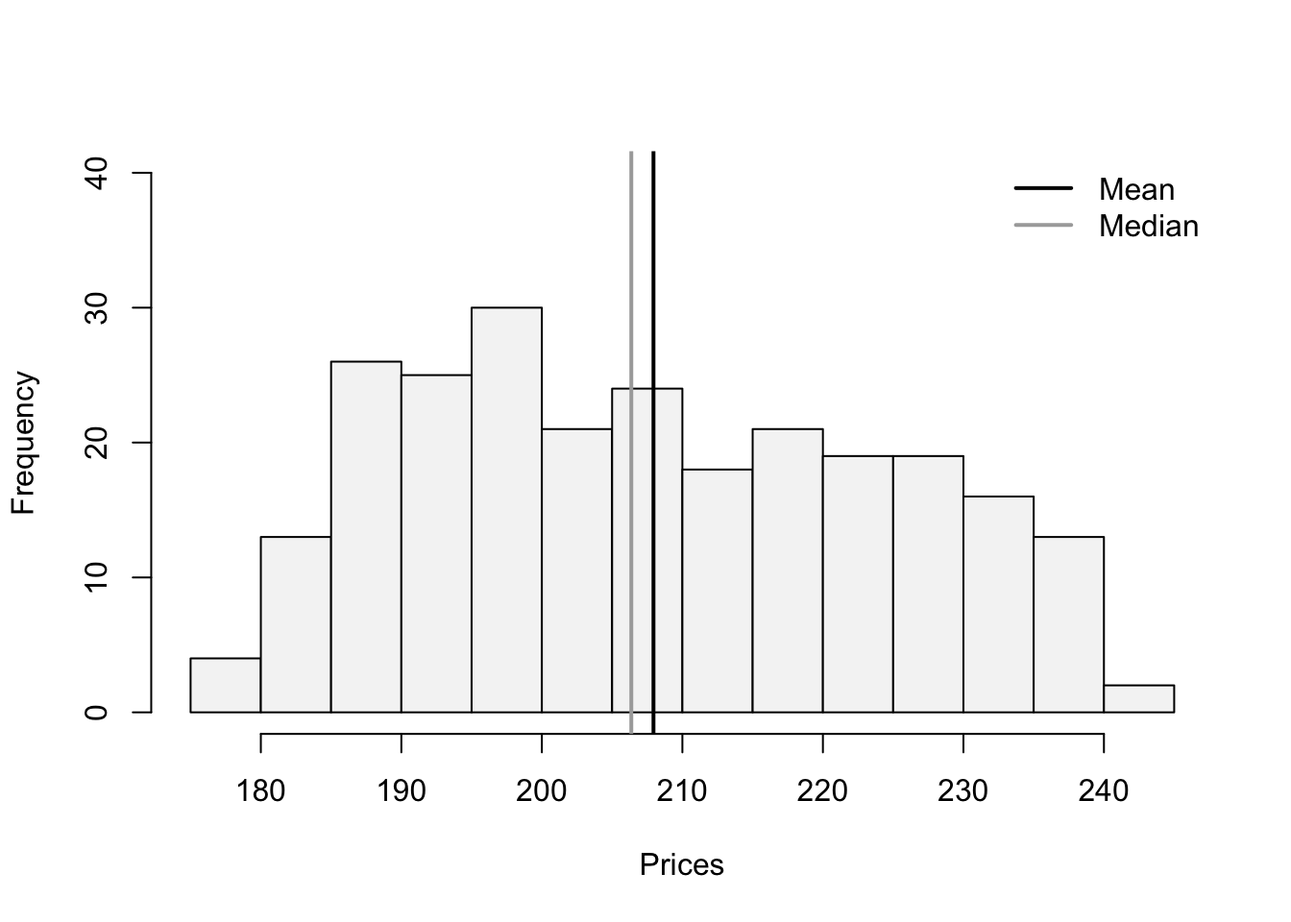
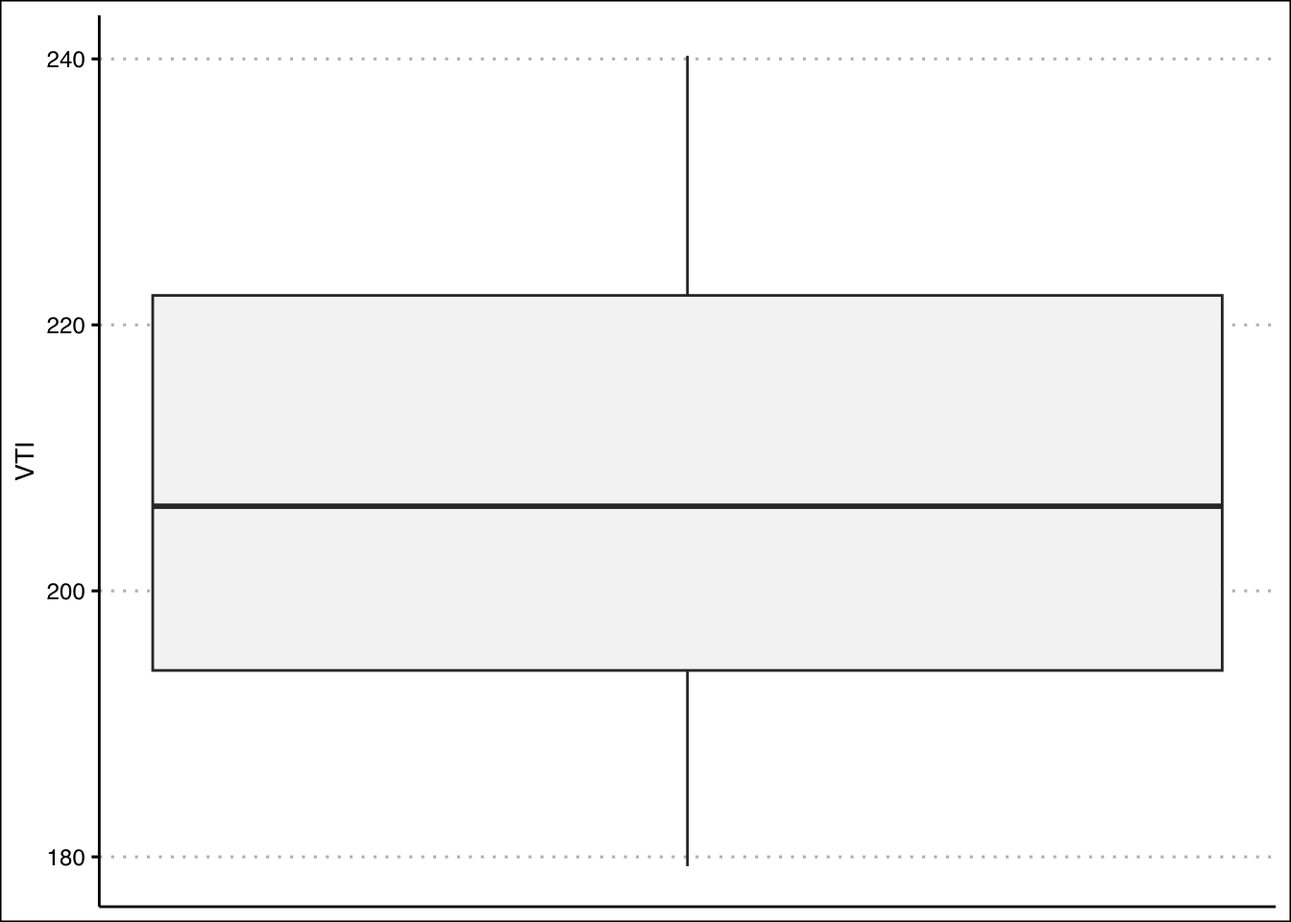
changes

diff --git a/docs/06-DescriptiveV.html b/docs/06-DescriptiveV.html
@@ -500,29 +500,40 @@ pre > code.sourceCode > span > a:first-child::before { text-decoration: underlin
 <p><img src="06-DescriptiveV_files/figure-html/unnamed-chunk-5-1.png" class="img-fluid" width="672"></p>
 </div>
 </div>
+<p>You can also create a box plot using <code>ggplot()</code>.</p>
+<div class="cell">
+<div class="sourceCode cell-code" id="cb9"><pre class="sourceCode r code-with-copy"><code class="sourceCode r"><span id="cb9-1"><a href="#cb9-1" aria-hidden="true" tabindex="-1"></a><span class="fu">library</span>(tidyverse)</span>
+<span id="cb9-2"><a href="#cb9-2" aria-hidden="true" tabindex="-1"></a><span class="fu">library</span>(ggthemes)</span>
+<span id="cb9-3"><a href="#cb9-3" aria-hidden="true" tabindex="-1"></a><span class="fu">ggplot</span>(<span class="at">data=</span>StockPrices) <span class="sc">+</span></span>
+<span id="cb9-4"><a href="#cb9-4" aria-hidden="true" tabindex="-1"></a>  <span class="fu">geom_boxplot</span>(<span class="fu">aes</span>(<span class="at">y=</span>VTI), <span class="at">fill=</span><span class="st">"#F5F5F5"</span>, <span class="at">outlier.color=</span><span class="st">"red"</span>) <span class="sc">+</span></span>
+<span id="cb9-5"><a href="#cb9-5" aria-hidden="true" tabindex="-1"></a>  <span class="fu">scale_x_continuous</span>(<span class="at">breaks=</span><span class="cn">NULL</span>) <span class="sc">+</span> <span class="fu">theme_clean</span>()</span></code><button title="Copy to Clipboard" class="code-copy-button"><i class="bi"></i></button></pre></div>
+<div class="cell-output-display">
+<p><img src="06-DescriptiveV_files/figure-html/unnamed-chunk-6-1.png" class="img-fluid" width="672"></p>
+</div>
+</div>
 <p>The boxplot shows that there are no outliers. The data also looks like it has a slight skew to the right.</p>
 <ol start="2" type="1">
 <li>The mean is more sensitive to outliers than the median. Hence, when the data is skewed to the right we expect that the mean is larger than the median.</li>
 </ol>
 <p>Let’s construct a histogram in R to search for skewness.</p>
 <div class="cell">
-<div class="sourceCode cell-code" id="cb9"><pre class="sourceCode r code-with-copy"><code class="sourceCode r"><span id="cb9-1"><a href="#cb9-1" aria-hidden="true" tabindex="-1"></a><span class="fu">hist</span>(StockPrices<span class="sc">$</span>VTI,<span class="at">main=</span><span class="st">""</span>, <span class="at">ylim=</span><span class="fu">c</span>(<span class="dv">0</span>,<span class="dv">40</span>), </span>
-<span id="cb9-2"><a href="#cb9-2" aria-hidden="true" tabindex="-1"></a>     <span class="at">xlab=</span><span class="st">"Prices"</span>, <span class="at">col=</span><span class="st">"#F5F5F5"</span>)</span>
-<span id="cb9-3"><a href="#cb9-3" aria-hidden="true" tabindex="-1"></a><span class="fu">abline</span>(<span class="at">v=</span><span class="fu">mean</span>(StockPrices<span class="sc">$</span>VTI),<span class="at">col=</span><span class="st">"black"</span>,<span class="at">lwd=</span><span class="dv">2</span>)</span>
-<span id="cb9-4"><a href="#cb9-4" aria-hidden="true" tabindex="-1"></a><span class="fu">abline</span>(<span class="at">v=</span><span class="fu">median</span>(StockPrices<span class="sc">$</span>VTI),<span class="at">col=</span><span class="st">"darkgrey"</span>,<span class="at">lwd=</span><span class="dv">2</span>)</span>
-<span id="cb9-5"><a href="#cb9-5" aria-hidden="true" tabindex="-1"></a><span class="fu">legend</span>(<span class="at">x =</span> <span class="st">"topright"</span>,          </span>
-<span id="cb9-6"><a href="#cb9-6" aria-hidden="true" tabindex="-1"></a>       <span class="at">legend =</span> <span class="fu">c</span>(<span class="st">"Mean"</span>, <span class="st">"Median"</span>),  </span>
-<span id="cb9-7"><a href="#cb9-7" aria-hidden="true" tabindex="-1"></a>       <span class="at">lty =</span> <span class="fu">c</span>(<span class="dv">1</span>, <span class="dv">1</span>),           </span>
-<span id="cb9-8"><a href="#cb9-8" aria-hidden="true" tabindex="-1"></a>       <span class="at">col =</span> <span class="fu">c</span>(<span class="st">"black"</span>, <span class="st">"darkgrey"</span>),         </span>
-<span id="cb9-9"><a href="#cb9-9" aria-hidden="true" tabindex="-1"></a>       <span class="at">lwd =</span> <span class="dv">2</span>,</span>
-<span id="cb9-10"><a href="#cb9-10" aria-hidden="true" tabindex="-1"></a>       <span class="at">bty=</span><span class="st">"n"</span>)    </span></code><button title="Copy to Clipboard" class="code-copy-button"><i class="bi"></i></button></pre></div>
+<div class="sourceCode cell-code" id="cb10"><pre class="sourceCode r code-with-copy"><code class="sourceCode r"><span id="cb10-1"><a href="#cb10-1" aria-hidden="true" tabindex="-1"></a><span class="fu">hist</span>(StockPrices<span class="sc">$</span>VTI,<span class="at">main=</span><span class="st">""</span>, <span class="at">ylim=</span><span class="fu">c</span>(<span class="dv">0</span>,<span class="dv">40</span>), </span>
+<span id="cb10-2"><a href="#cb10-2" aria-hidden="true" tabindex="-1"></a>     <span class="at">xlab=</span><span class="st">"Prices"</span>, <span class="at">col=</span><span class="st">"#F5F5F5"</span>)</span>
+<span id="cb10-3"><a href="#cb10-3" aria-hidden="true" tabindex="-1"></a><span class="fu">abline</span>(<span class="at">v=</span><span class="fu">mean</span>(StockPrices<span class="sc">$</span>VTI),<span class="at">col=</span><span class="st">"black"</span>,<span class="at">lwd=</span><span class="dv">2</span>)</span>
+<span id="cb10-4"><a href="#cb10-4" aria-hidden="true" tabindex="-1"></a><span class="fu">abline</span>(<span class="at">v=</span><span class="fu">median</span>(StockPrices<span class="sc">$</span>VTI),<span class="at">col=</span><span class="st">"darkgrey"</span>,<span class="at">lwd=</span><span class="dv">2</span>)</span>
+<span id="cb10-5"><a href="#cb10-5" aria-hidden="true" tabindex="-1"></a><span class="fu">legend</span>(<span class="at">x =</span> <span class="st">"topright"</span>,          </span>
+<span id="cb10-6"><a href="#cb10-6" aria-hidden="true" tabindex="-1"></a>       <span class="at">legend =</span> <span class="fu">c</span>(<span class="st">"Mean"</span>, <span class="st">"Median"</span>),  </span>
+<span id="cb10-7"><a href="#cb10-7" aria-hidden="true" tabindex="-1"></a>       <span class="at">lty =</span> <span class="fu">c</span>(<span class="dv">1</span>, <span class="dv">1</span>),           </span>
+<span id="cb10-8"><a href="#cb10-8" aria-hidden="true" tabindex="-1"></a>       <span class="at">col =</span> <span class="fu">c</span>(<span class="st">"black"</span>, <span class="st">"darkgrey"</span>),         </span>
+<span id="cb10-9"><a href="#cb10-9" aria-hidden="true" tabindex="-1"></a>       <span class="at">lwd =</span> <span class="dv">2</span>,</span>
+<span id="cb10-10"><a href="#cb10-10" aria-hidden="true" tabindex="-1"></a>       <span class="at">bty=</span><span class="st">"n"</span>)    </span></code><button title="Copy to Clipboard" class="code-copy-button"><i class="bi"></i></button></pre></div>
 <div class="cell-output-display">
-<p><img src="06-DescriptiveV_files/figure-html/unnamed-chunk-6-1.png" class="img-fluid" width="672"></p>
+<p><img src="06-DescriptiveV_files/figure-html/unnamed-chunk-7-1.png" class="img-fluid" width="672"></p>
 </div>
 </div>
 <p>The lines are close to each other but the mean is slighlty larger than the median. Let’s confirm with the skewness statistic <span class="math inline">\(3(mean-median)/sd\)</span>.</p>
 <div class="cell">
-<div class="sourceCode cell-code" id="cb10"><pre class="sourceCode r code-with-copy"><code class="sourceCode r"><span id="cb10-1"><a href="#cb10-1" aria-hidden="true" tabindex="-1"></a>(skew<span class="ot">&lt;-</span><span class="dv">3</span><span class="sc">*</span>(<span class="fu">mean</span>(StockPrices<span class="sc">$</span>VTI<span class="sc">-</span><span class="fu">median</span>(StockPrices<span class="sc">$</span>VTI))<span class="sc">/</span><span class="fu">sd</span>(StockPrices<span class="sc">$</span>VTI)))</span></code><button title="Copy to Clipboard" class="code-copy-button"><i class="bi"></i></button></pre></div>
+<div class="sourceCode cell-code" id="cb11"><pre class="sourceCode r code-with-copy"><code class="sourceCode r"><span id="cb11-1"><a href="#cb11-1" aria-hidden="true" tabindex="-1"></a>(skew<span class="ot">&lt;-</span><span class="dv">3</span><span class="sc">*</span>(<span class="fu">mean</span>(StockPrices<span class="sc">$</span>VTI<span class="sc">-</span><span class="fu">median</span>(StockPrices<span class="sc">$</span>VTI))<span class="sc">/</span><span class="fu">sd</span>(StockPrices<span class="sc">$</span>VTI)))</span></code><button title="Copy to Clipboard" class="code-copy-button"><i class="bi"></i></button></pre></div>
 <div class="cell-output cell-output-stdout">
 <pre><code>[1] 0.2856304</code></pre>
 </div>
@@ -532,12 +543,12 @@ pre > code.sourceCode > span > a:first-child::before { text-decoration: underlin
 <li>The line chart indicates that the data has a downward trend in the early periods. This creates a few points that are large. In later periods the stock price stabilizes to lower levels.</li>
 </ol>
 <div class="cell">
-<div class="sourceCode cell-code" id="cb12"><pre class="sourceCode r code-with-copy"><code class="sourceCode r"><span id="cb12-1"><a href="#cb12-1" aria-hidden="true" tabindex="-1"></a><span class="fu">plot</span>(<span class="at">y=</span>StockPrices<span class="sc">$</span>VTI,<span class="at">x=</span><span class="fu">seq</span>(<span class="dv">1</span>,<span class="fu">length</span>(StockPrices<span class="sc">$</span>VTI)),</span>
-<span id="cb12-2"><a href="#cb12-2" aria-hidden="true" tabindex="-1"></a>     <span class="at">type=</span><span class="st">"l"</span>, <span class="at">ylab=</span><span class="st">"Prices"</span>, <span class="at">xlab=</span><span class="st">"Period"</span>, <span class="at">axes=</span>F)</span>
-<span id="cb12-3"><a href="#cb12-3" aria-hidden="true" tabindex="-1"></a><span class="fu">axis</span>(<span class="at">side=</span><span class="dv">1</span>, <span class="at">labels=</span><span class="cn">TRUE</span>, <span class="at">at=</span><span class="fu">seq</span>(<span class="dv">0</span>,<span class="dv">250</span>,<span class="dv">50</span>),<span class="at">font=</span><span class="dv">1</span>,<span class="at">las=</span><span class="dv">1</span>)</span>
-<span id="cb12-4"><a href="#cb12-4" aria-hidden="true" tabindex="-1"></a><span class="fu">axis</span>(<span class="at">side=</span><span class="dv">2</span>, <span class="at">labels=</span><span class="cn">TRUE</span>, <span class="at">at=</span><span class="fu">seq</span>(<span class="dv">0</span>,<span class="dv">300</span>,<span class="dv">20</span>),<span class="at">font=</span><span class="dv">1</span>,<span class="at">las=</span><span class="dv">1</span>)</span></code><button title="Copy to Clipboard" class="code-copy-button"><i class="bi"></i></button></pre></div>
+<div class="sourceCode cell-code" id="cb13"><pre class="sourceCode r code-with-copy"><code class="sourceCode r"><span id="cb13-1"><a href="#cb13-1" aria-hidden="true" tabindex="-1"></a><span class="fu">plot</span>(<span class="at">y=</span>StockPrices<span class="sc">$</span>VTI,<span class="at">x=</span><span class="fu">seq</span>(<span class="dv">1</span>,<span class="fu">length</span>(StockPrices<span class="sc">$</span>VTI)),</span>
+<span id="cb13-2"><a href="#cb13-2" aria-hidden="true" tabindex="-1"></a>     <span class="at">type=</span><span class="st">"l"</span>, <span class="at">ylab=</span><span class="st">"Prices"</span>, <span class="at">xlab=</span><span class="st">"Period"</span>, <span class="at">axes=</span>F)</span>
+<span id="cb13-3"><a href="#cb13-3" aria-hidden="true" tabindex="-1"></a><span class="fu">axis</span>(<span class="at">side=</span><span class="dv">1</span>, <span class="at">labels=</span><span class="cn">TRUE</span>, <span class="at">at=</span><span class="fu">seq</span>(<span class="dv">0</span>,<span class="dv">250</span>,<span class="dv">50</span>),<span class="at">font=</span><span class="dv">1</span>,<span class="at">las=</span><span class="dv">1</span>)</span>
+<span id="cb13-4"><a href="#cb13-4" aria-hidden="true" tabindex="-1"></a><span class="fu">axis</span>(<span class="at">side=</span><span class="dv">2</span>, <span class="at">labels=</span><span class="cn">TRUE</span>, <span class="at">at=</span><span class="fu">seq</span>(<span class="dv">0</span>,<span class="dv">300</span>,<span class="dv">20</span>),<span class="at">font=</span><span class="dv">1</span>,<span class="at">las=</span><span class="dv">1</span>)</span></code><button title="Copy to Clipboard" class="code-copy-button"><i class="bi"></i></button></pre></div>
 <div class="cell-output-display">
-<p><img src="06-DescriptiveV_files/figure-html/unnamed-chunk-8-1.png" class="img-fluid" width="672"></p>
+<p><img src="06-DescriptiveV_files/figure-html/unnamed-chunk-9-1.png" class="img-fluid" width="672"></p>
 </div>
 </div>
 </section>
@@ -548,17 +559,17 @@ pre > code.sourceCode > span > a:first-child::before { text-decoration: underlin
 </ol>
 <p>In R we can construct a boxplot with the following command:</p>
 <div class="cell">
-<div class="sourceCode cell-code" id="cb13"><pre class="sourceCode r code-with-copy"><code class="sourceCode r"><span id="cb13-1"><a href="#cb13-1" aria-hidden="true" tabindex="-1"></a><span class="fu">boxplot</span>(mtcars<span class="sc">$</span>hp,<span class="at">axes=</span>F, <span class="at">ylim=</span><span class="fu">c</span>(<span class="dv">0</span>,<span class="dv">400</span>),</span>
-<span id="cb13-2"><a href="#cb13-2" aria-hidden="true" tabindex="-1"></a>        <span class="at">cex=</span><span class="fl">1.5</span>, <span class="at">col=</span><span class="st">"#F5F5F5"</span>,<span class="at">pch=</span><span class="dv">21</span>,<span class="at">bg=</span><span class="st">"red"</span>)</span>
-<span id="cb13-3"><a href="#cb13-3" aria-hidden="true" tabindex="-1"></a><span class="fu">axis</span>(<span class="at">side=</span><span class="dv">1</span>, <span class="at">labels=</span><span class="fu">c</span>(<span class="st">"HP"</span>), <span class="at">at=</span><span class="fu">seq</span>(<span class="dv">1</span>))</span>
-<span id="cb13-4"><a href="#cb13-4" aria-hidden="true" tabindex="-1"></a><span class="fu">axis</span>(<span class="at">side=</span><span class="dv">2</span>, <span class="at">labels=</span><span class="cn">TRUE</span>, <span class="at">at=</span><span class="fu">seq</span>(<span class="dv">0</span>,<span class="dv">400</span>,<span class="dv">50</span>),<span class="at">font=</span><span class="dv">1</span>,<span class="at">las=</span><span class="dv">1</span>)</span></code><button title="Copy to Clipboard" class="code-copy-button"><i class="bi"></i></button></pre></div>
+<div class="sourceCode cell-code" id="cb14"><pre class="sourceCode r code-with-copy"><code class="sourceCode r"><span id="cb14-1"><a href="#cb14-1" aria-hidden="true" tabindex="-1"></a><span class="fu">boxplot</span>(mtcars<span class="sc">$</span>hp,<span class="at">axes=</span>F, <span class="at">ylim=</span><span class="fu">c</span>(<span class="dv">0</span>,<span class="dv">400</span>),</span>
+<span id="cb14-2"><a href="#cb14-2" aria-hidden="true" tabindex="-1"></a>        <span class="at">cex=</span><span class="fl">1.5</span>, <span class="at">col=</span><span class="st">"#F5F5F5"</span>,<span class="at">pch=</span><span class="dv">21</span>,<span class="at">bg=</span><span class="st">"red"</span>)</span>
+<span id="cb14-3"><a href="#cb14-3" aria-hidden="true" tabindex="-1"></a><span class="fu">axis</span>(<span class="at">side=</span><span class="dv">1</span>, <span class="at">labels=</span><span class="fu">c</span>(<span class="st">"HP"</span>), <span class="at">at=</span><span class="fu">seq</span>(<span class="dv">1</span>))</span>
+<span id="cb14-4"><a href="#cb14-4" aria-hidden="true" tabindex="-1"></a><span class="fu">axis</span>(<span class="at">side=</span><span class="dv">2</span>, <span class="at">labels=</span><span class="cn">TRUE</span>, <span class="at">at=</span><span class="fu">seq</span>(<span class="dv">0</span>,<span class="dv">400</span>,<span class="dv">50</span>),<span class="at">font=</span><span class="dv">1</span>,<span class="at">las=</span><span class="dv">1</span>)</span></code><button title="Copy to Clipboard" class="code-copy-button"><i class="bi"></i></button></pre></div>
 <div class="cell-output-display">
-<p><img src="06-DescriptiveV_files/figure-html/unnamed-chunk-9-1.png" class="img-fluid" width="672"></p>
+<p><img src="06-DescriptiveV_files/figure-html/unnamed-chunk-10-1.png" class="img-fluid" width="672"></p>
 </div>
 </div>
 <p>From the graph it seems like the outlier is beyond a horsepower of 275. Let’s write an R command to retrieve the car.</p>
 <div class="cell">
-<div class="sourceCode cell-code" id="cb14"><pre class="sourceCode r code-with-copy"><code class="sourceCode r"><span id="cb14-1"><a href="#cb14-1" aria-hidden="true" tabindex="-1"></a>mtcars[mtcars<span class="sc">$</span>hp<span class="sc">&gt;</span><span class="dv">275</span>,]</span></code><button title="Copy to Clipboard" class="code-copy-button"><i class="bi"></i></button></pre></div>
+<div class="sourceCode cell-code" id="cb15"><pre class="sourceCode r code-with-copy"><code class="sourceCode r"><span id="cb15-1"><a href="#cb15-1" aria-hidden="true" tabindex="-1"></a>mtcars[mtcars<span class="sc">$</span>hp<span class="sc">&gt;</span><span class="dv">275</span>,]</span></code><button title="Copy to Clipboard" class="code-copy-button"><i class="bi"></i></button></pre></div>
 <div class="cell-output cell-output-stdout">
 <pre><code>              mpg cyl disp  hp drat   wt qsec vs am gear carb
 Maserati Bora  15   8  301 335 3.54 3.57 14.6  0  1    5    8</code></pre>
@@ -570,23 +581,23 @@ Maserati Bora  15   8  301 335 3.54 3.57 14.6  0  1    5    8</code></pre>
 </ol>
 <p>In R we can construct a histogram with vertical lines for the mean and median wit the following code:</p>
 <div class="cell">
-<div class="sourceCode cell-code" id="cb16"><pre class="sourceCode r code-with-copy"><code class="sourceCode r"><span id="cb16-1"><a href="#cb16-1" aria-hidden="true" tabindex="-1"></a><span class="fu">hist</span>(mtcars<span class="sc">$</span>hp,<span class="at">main=</span><span class="st">""</span>, <span class="at">ylim=</span><span class="fu">c</span>(<span class="dv">0</span>,<span class="dv">12</span>), <span class="at">xlab=</span><span class="st">"Horse Power"</span>,</span>
-<span id="cb16-2"><a href="#cb16-2" aria-hidden="true" tabindex="-1"></a>     <span class="at">col=</span><span class="st">"#F5F5F5"</span>)</span>
-<span id="cb16-3"><a href="#cb16-3" aria-hidden="true" tabindex="-1"></a><span class="fu">abline</span>(<span class="at">v=</span><span class="fu">mean</span>(mtcars<span class="sc">$</span>hp),<span class="at">col=</span><span class="st">"black"</span>,<span class="at">lwd=</span><span class="dv">2</span>)</span>
-<span id="cb16-4"><a href="#cb16-4" aria-hidden="true" tabindex="-1"></a><span class="fu">abline</span>(<span class="at">v=</span><span class="fu">median</span>(mtcars<span class="sc">$</span>hp),<span class="at">col=</span><span class="st">"darkgrey"</span>,<span class="at">lwd=</span><span class="dv">2</span>)</span>
-<span id="cb16-5"><a href="#cb16-5" aria-hidden="true" tabindex="-1"></a><span class="fu">legend</span>(<span class="at">x =</span> <span class="st">"topright"</span>,          </span>
-<span id="cb16-6"><a href="#cb16-6" aria-hidden="true" tabindex="-1"></a>       <span class="at">legend =</span> <span class="fu">c</span>(<span class="st">"Mean"</span>, <span class="st">"Median"</span>),  </span>
-<span id="cb16-7"><a href="#cb16-7" aria-hidden="true" tabindex="-1"></a>       <span class="at">lty =</span> <span class="fu">c</span>(<span class="dv">1</span>, <span class="dv">1</span>),           </span>
-<span id="cb16-8"><a href="#cb16-8" aria-hidden="true" tabindex="-1"></a>       <span class="at">col =</span> <span class="fu">c</span>(<span class="st">"black"</span>, <span class="st">"darkgrey"</span>),         </span>
-<span id="cb16-9"><a href="#cb16-9" aria-hidden="true" tabindex="-1"></a>       <span class="at">lwd =</span> <span class="dv">2</span>,</span>
-<span id="cb16-10"><a href="#cb16-10" aria-hidden="true" tabindex="-1"></a>       <span class="at">bty=</span><span class="st">"n"</span>)    </span></code><button title="Copy to Clipboard" class="code-copy-button"><i class="bi"></i></button></pre></div>
+<div class="sourceCode cell-code" id="cb17"><pre class="sourceCode r code-with-copy"><code class="sourceCode r"><span id="cb17-1"><a href="#cb17-1" aria-hidden="true" tabindex="-1"></a><span class="fu">hist</span>(mtcars<span class="sc">$</span>hp,<span class="at">main=</span><span class="st">""</span>, <span class="at">ylim=</span><span class="fu">c</span>(<span class="dv">0</span>,<span class="dv">12</span>), <span class="at">xlab=</span><span class="st">"Horse Power"</span>,</span>
+<span id="cb17-2"><a href="#cb17-2" aria-hidden="true" tabindex="-1"></a>     <span class="at">col=</span><span class="st">"#F5F5F5"</span>)</span>
+<span id="cb17-3"><a href="#cb17-3" aria-hidden="true" tabindex="-1"></a><span class="fu">abline</span>(<span class="at">v=</span><span class="fu">mean</span>(mtcars<span class="sc">$</span>hp),<span class="at">col=</span><span class="st">"black"</span>,<span class="at">lwd=</span><span class="dv">2</span>)</span>
+<span id="cb17-4"><a href="#cb17-4" aria-hidden="true" tabindex="-1"></a><span class="fu">abline</span>(<span class="at">v=</span><span class="fu">median</span>(mtcars<span class="sc">$</span>hp),<span class="at">col=</span><span class="st">"darkgrey"</span>,<span class="at">lwd=</span><span class="dv">2</span>)</span>
+<span id="cb17-5"><a href="#cb17-5" aria-hidden="true" tabindex="-1"></a><span class="fu">legend</span>(<span class="at">x =</span> <span class="st">"topright"</span>,          </span>
+<span id="cb17-6"><a href="#cb17-6" aria-hidden="true" tabindex="-1"></a>       <span class="at">legend =</span> <span class="fu">c</span>(<span class="st">"Mean"</span>, <span class="st">"Median"</span>),  </span>
+<span id="cb17-7"><a href="#cb17-7" aria-hidden="true" tabindex="-1"></a>       <span class="at">lty =</span> <span class="fu">c</span>(<span class="dv">1</span>, <span class="dv">1</span>),           </span>
+<span id="cb17-8"><a href="#cb17-8" aria-hidden="true" tabindex="-1"></a>       <span class="at">col =</span> <span class="fu">c</span>(<span class="st">"black"</span>, <span class="st">"darkgrey"</span>),         </span>
+<span id="cb17-9"><a href="#cb17-9" aria-hidden="true" tabindex="-1"></a>       <span class="at">lwd =</span> <span class="dv">2</span>,</span>
+<span id="cb17-10"><a href="#cb17-10" aria-hidden="true" tabindex="-1"></a>       <span class="at">bty=</span><span class="st">"n"</span>)    </span></code><button title="Copy to Clipboard" class="code-copy-button"><i class="bi"></i></button></pre></div>
 <div class="cell-output-display">
-<p><img src="06-DescriptiveV_files/figure-html/unnamed-chunk-11-1.png" class="img-fluid" width="672"></p>
+<p><img src="06-DescriptiveV_files/figure-html/unnamed-chunk-12-1.png" class="img-fluid" width="672"></p>
 </div>
 </div>
 <p>The histogram looks skewed to the right. Pearson’s Coefficient of Skewness is:</p>
 <div class="cell">
-<div class="sourceCode cell-code" id="cb17"><pre class="sourceCode r code-with-copy"><code class="sourceCode r"><span id="cb17-1"><a href="#cb17-1" aria-hidden="true" tabindex="-1"></a>(SkewHP<span class="ot">&lt;-</span><span class="dv">3</span><span class="sc">*</span>(<span class="fu">mean</span>(mtcars<span class="sc">$</span>hp)<span class="sc">-</span><span class="fu">median</span>(mtcars<span class="sc">$</span>hp))<span class="sc">/</span><span class="fu">sd</span>(mtcars<span class="sc">$</span>hp))</span></code><button title="Copy to Clipboard" class="code-copy-button"><i class="bi"></i></button></pre></div>
+<div class="sourceCode cell-code" id="cb18"><pre class="sourceCode r code-with-copy"><code class="sourceCode r"><span id="cb18-1"><a href="#cb18-1" aria-hidden="true" tabindex="-1"></a>(SkewHP<span class="ot">&lt;-</span><span class="dv">3</span><span class="sc">*</span>(<span class="fu">mean</span>(mtcars<span class="sc">$</span>hp)<span class="sc">-</span><span class="fu">median</span>(mtcars<span class="sc">$</span>hp))<span class="sc">/</span><span class="fu">sd</span>(mtcars<span class="sc">$</span>hp))</span></code><button title="Copy to Clipboard" class="code-copy-button"><i class="bi"></i></button></pre></div>
 <div class="cell-output cell-output-stdout">
 <pre><code>[1] 1.036458</code></pre>
 </div>
@@ -596,27 +607,27 @@ Maserati Bora  15   8  301 335 3.54 3.57 14.6  0  1    5    8</code></pre>
 </ol>
 <p>In R we can create an new variable that captures the log transformation. The <code>log()</code> function takes the natural logarithm of a number or vector.</p>
 <div class="cell">
-<div class="sourceCode cell-code" id="cb19"><pre class="sourceCode r code-with-copy"><code class="sourceCode r"><span id="cb19-1"><a href="#cb19-1" aria-hidden="true" tabindex="-1"></a>LogHP<span class="ot">&lt;-</span><span class="fu">log</span>(mtcars<span class="sc">$</span>hp)</span></code><button title="Copy to Clipboard" class="code-copy-button"><i class="bi"></i></button></pre></div>
+<div class="sourceCode cell-code" id="cb20"><pre class="sourceCode r code-with-copy"><code class="sourceCode r"><span id="cb20-1"><a href="#cb20-1" aria-hidden="true" tabindex="-1"></a>LogHP<span class="ot">&lt;-</span><span class="fu">log</span>(mtcars<span class="sc">$</span>hp)</span></code><button title="Copy to Clipboard" class="code-copy-button"><i class="bi"></i></button></pre></div>
 </div>
 <p>Let’s use this new variable to create our histogram:</p>
 <div class="cell">
-<div class="sourceCode cell-code" id="cb20"><pre class="sourceCode r code-with-copy"><code class="sourceCode r"><span id="cb20-1"><a href="#cb20-1" aria-hidden="true" tabindex="-1"></a><span class="fu">hist</span>(LogHP,<span class="at">main=</span><span class="st">""</span>, <span class="at">ylim=</span><span class="fu">c</span>(<span class="dv">0</span>,<span class="dv">12</span>), <span class="at">xlab=</span><span class="st">"Horse Power"</span>, </span>
-<span id="cb20-2"><a href="#cb20-2" aria-hidden="true" tabindex="-1"></a>     <span class="at">col=</span><span class="st">"#F5F5F5"</span>)</span>
-<span id="cb20-3"><a href="#cb20-3" aria-hidden="true" tabindex="-1"></a><span class="fu">abline</span>(<span class="at">v=</span><span class="fu">mean</span>(LogHP),<span class="at">col=</span><span class="st">"black"</span>,<span class="at">lwd=</span><span class="dv">2</span>)</span>
-<span id="cb20-4"><a href="#cb20-4" aria-hidden="true" tabindex="-1"></a><span class="fu">abline</span>(<span class="at">v=</span><span class="fu">median</span>(LogHP),<span class="at">col=</span><span class="st">"darkgrey"</span>,<span class="at">lwd=</span><span class="dv">2</span>)</span>
-<span id="cb20-5"><a href="#cb20-5" aria-hidden="true" tabindex="-1"></a><span class="fu">legend</span>(<span class="at">x =</span> <span class="st">"topright"</span>,          </span>
-<span id="cb20-6"><a href="#cb20-6" aria-hidden="true" tabindex="-1"></a>       <span class="at">legend =</span> <span class="fu">c</span>(<span class="st">"Mean"</span>, <span class="st">"Median"</span>),  </span>
-<span id="cb20-7"><a href="#cb20-7" aria-hidden="true" tabindex="-1"></a>       <span class="at">lty =</span> <span class="fu">c</span>(<span class="dv">1</span>, <span class="dv">1</span>),           </span>
-<span id="cb20-8"><a href="#cb20-8" aria-hidden="true" tabindex="-1"></a>       <span class="at">col =</span> <span class="fu">c</span>(<span class="st">"black"</span>, <span class="st">"darkgrey"</span>),         </span>
-<span id="cb20-9"><a href="#cb20-9" aria-hidden="true" tabindex="-1"></a>       <span class="at">lwd =</span> <span class="dv">2</span>,</span>
-<span id="cb20-10"><a href="#cb20-10" aria-hidden="true" tabindex="-1"></a>       <span class="at">bty=</span><span class="st">"n"</span>)    </span></code><button title="Copy to Clipboard" class="code-copy-button"><i class="bi"></i></button></pre></div>
+<div class="sourceCode cell-code" id="cb21"><pre class="sourceCode r code-with-copy"><code class="sourceCode r"><span id="cb21-1"><a href="#cb21-1" aria-hidden="true" tabindex="-1"></a><span class="fu">hist</span>(LogHP,<span class="at">main=</span><span class="st">""</span>, <span class="at">ylim=</span><span class="fu">c</span>(<span class="dv">0</span>,<span class="dv">12</span>), <span class="at">xlab=</span><span class="st">"Horse Power"</span>, </span>
+<span id="cb21-2"><a href="#cb21-2" aria-hidden="true" tabindex="-1"></a>     <span class="at">col=</span><span class="st">"#F5F5F5"</span>)</span>
+<span id="cb21-3"><a href="#cb21-3" aria-hidden="true" tabindex="-1"></a><span class="fu">abline</span>(<span class="at">v=</span><span class="fu">mean</span>(LogHP),<span class="at">col=</span><span class="st">"black"</span>,<span class="at">lwd=</span><span class="dv">2</span>)</span>
+<span id="cb21-4"><a href="#cb21-4" aria-hidden="true" tabindex="-1"></a><span class="fu">abline</span>(<span class="at">v=</span><span class="fu">median</span>(LogHP),<span class="at">col=</span><span class="st">"darkgrey"</span>,<span class="at">lwd=</span><span class="dv">2</span>)</span>
+<span id="cb21-5"><a href="#cb21-5" aria-hidden="true" tabindex="-1"></a><span class="fu">legend</span>(<span class="at">x =</span> <span class="st">"topright"</span>,          </span>
+<span id="cb21-6"><a href="#cb21-6" aria-hidden="true" tabindex="-1"></a>       <span class="at">legend =</span> <span class="fu">c</span>(<span class="st">"Mean"</span>, <span class="st">"Median"</span>),  </span>
+<span id="cb21-7"><a href="#cb21-7" aria-hidden="true" tabindex="-1"></a>       <span class="at">lty =</span> <span class="fu">c</span>(<span class="dv">1</span>, <span class="dv">1</span>),           </span>
+<span id="cb21-8"><a href="#cb21-8" aria-hidden="true" tabindex="-1"></a>       <span class="at">col =</span> <span class="fu">c</span>(<span class="st">"black"</span>, <span class="st">"darkgrey"</span>),         </span>
+<span id="cb21-9"><a href="#cb21-9" aria-hidden="true" tabindex="-1"></a>       <span class="at">lwd =</span> <span class="dv">2</span>,</span>
+<span id="cb21-10"><a href="#cb21-10" aria-hidden="true" tabindex="-1"></a>       <span class="at">bty=</span><span class="st">"n"</span>)    </span></code><button title="Copy to Clipboard" class="code-copy-button"><i class="bi"></i></button></pre></div>
 <div class="cell-output-display">
-<p><img src="06-DescriptiveV_files/figure-html/unnamed-chunk-14-1.png" class="img-fluid" width="672"></p>
+<p><img src="06-DescriptiveV_files/figure-html/unnamed-chunk-15-1.png" class="img-fluid" width="672"></p>
 </div>
 </div>
 <p>The mean and the variance now look closer together. The tail of the distribution (skew) now also looks diminished. The Skewness coefficient has decreased significantly:</p>
 <div class="cell">
-<div class="sourceCode cell-code" id="cb21"><pre class="sourceCode r code-with-copy"><code class="sourceCode r"><span id="cb21-1"><a href="#cb21-1" aria-hidden="true" tabindex="-1"></a>(SkewLogHP<span class="ot">&lt;-</span><span class="dv">3</span><span class="sc">*</span>(<span class="fu">mean</span>(LogHP)<span class="sc">-</span><span class="fu">median</span>(LogHP))<span class="sc">/</span><span class="fu">sd</span>(LogHP))</span></code><button title="Copy to Clipboard" class="code-copy-button"><i class="bi"></i></button></pre></div>
+<div class="sourceCode cell-code" id="cb22"><pre class="sourceCode r code-with-copy"><code class="sourceCode r"><span id="cb22-1"><a href="#cb22-1" aria-hidden="true" tabindex="-1"></a>(SkewLogHP<span class="ot">&lt;-</span><span class="dv">3</span><span class="sc">*</span>(<span class="fu">mean</span>(LogHP)<span class="sc">-</span><span class="fu">median</span>(LogHP))<span class="sc">/</span><span class="fu">sd</span>(LogHP))</span></code><button title="Copy to Clipboard" class="code-copy-button"><i class="bi"></i></button></pre></div>
 <div class="cell-output cell-output-stdout">
 <pre><code>[1] 0.4402212</code></pre>
 </div>
